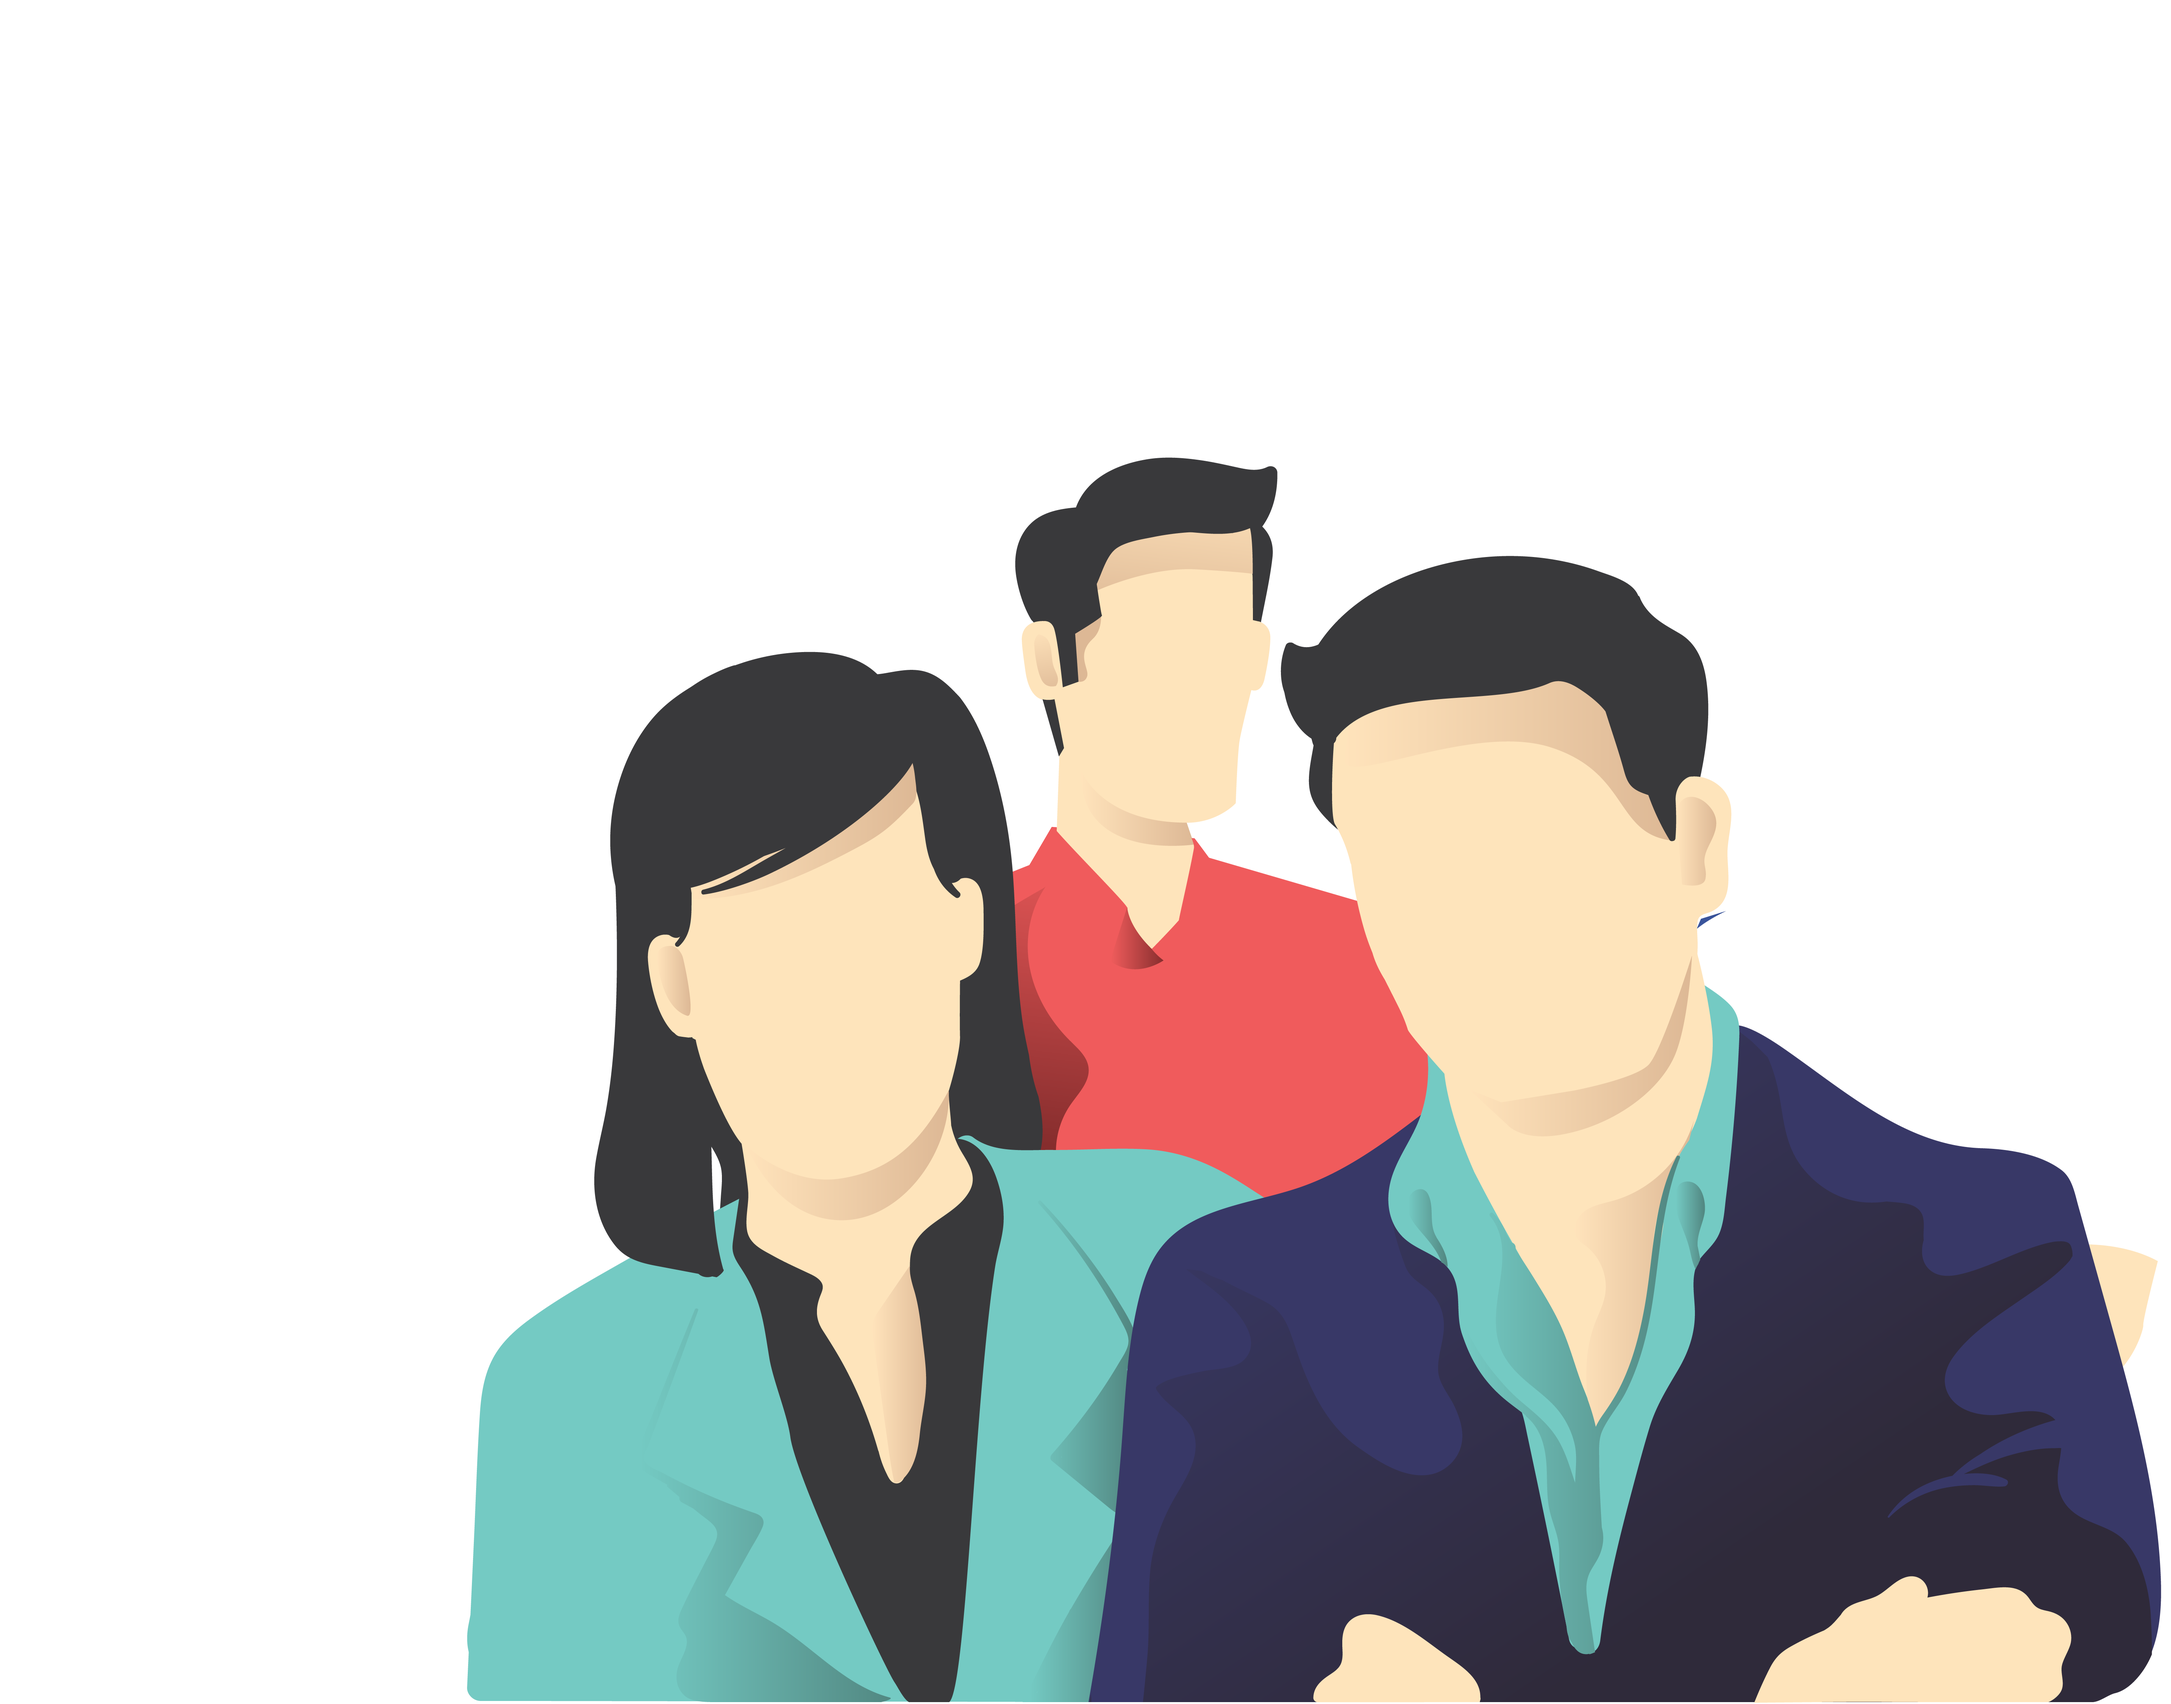
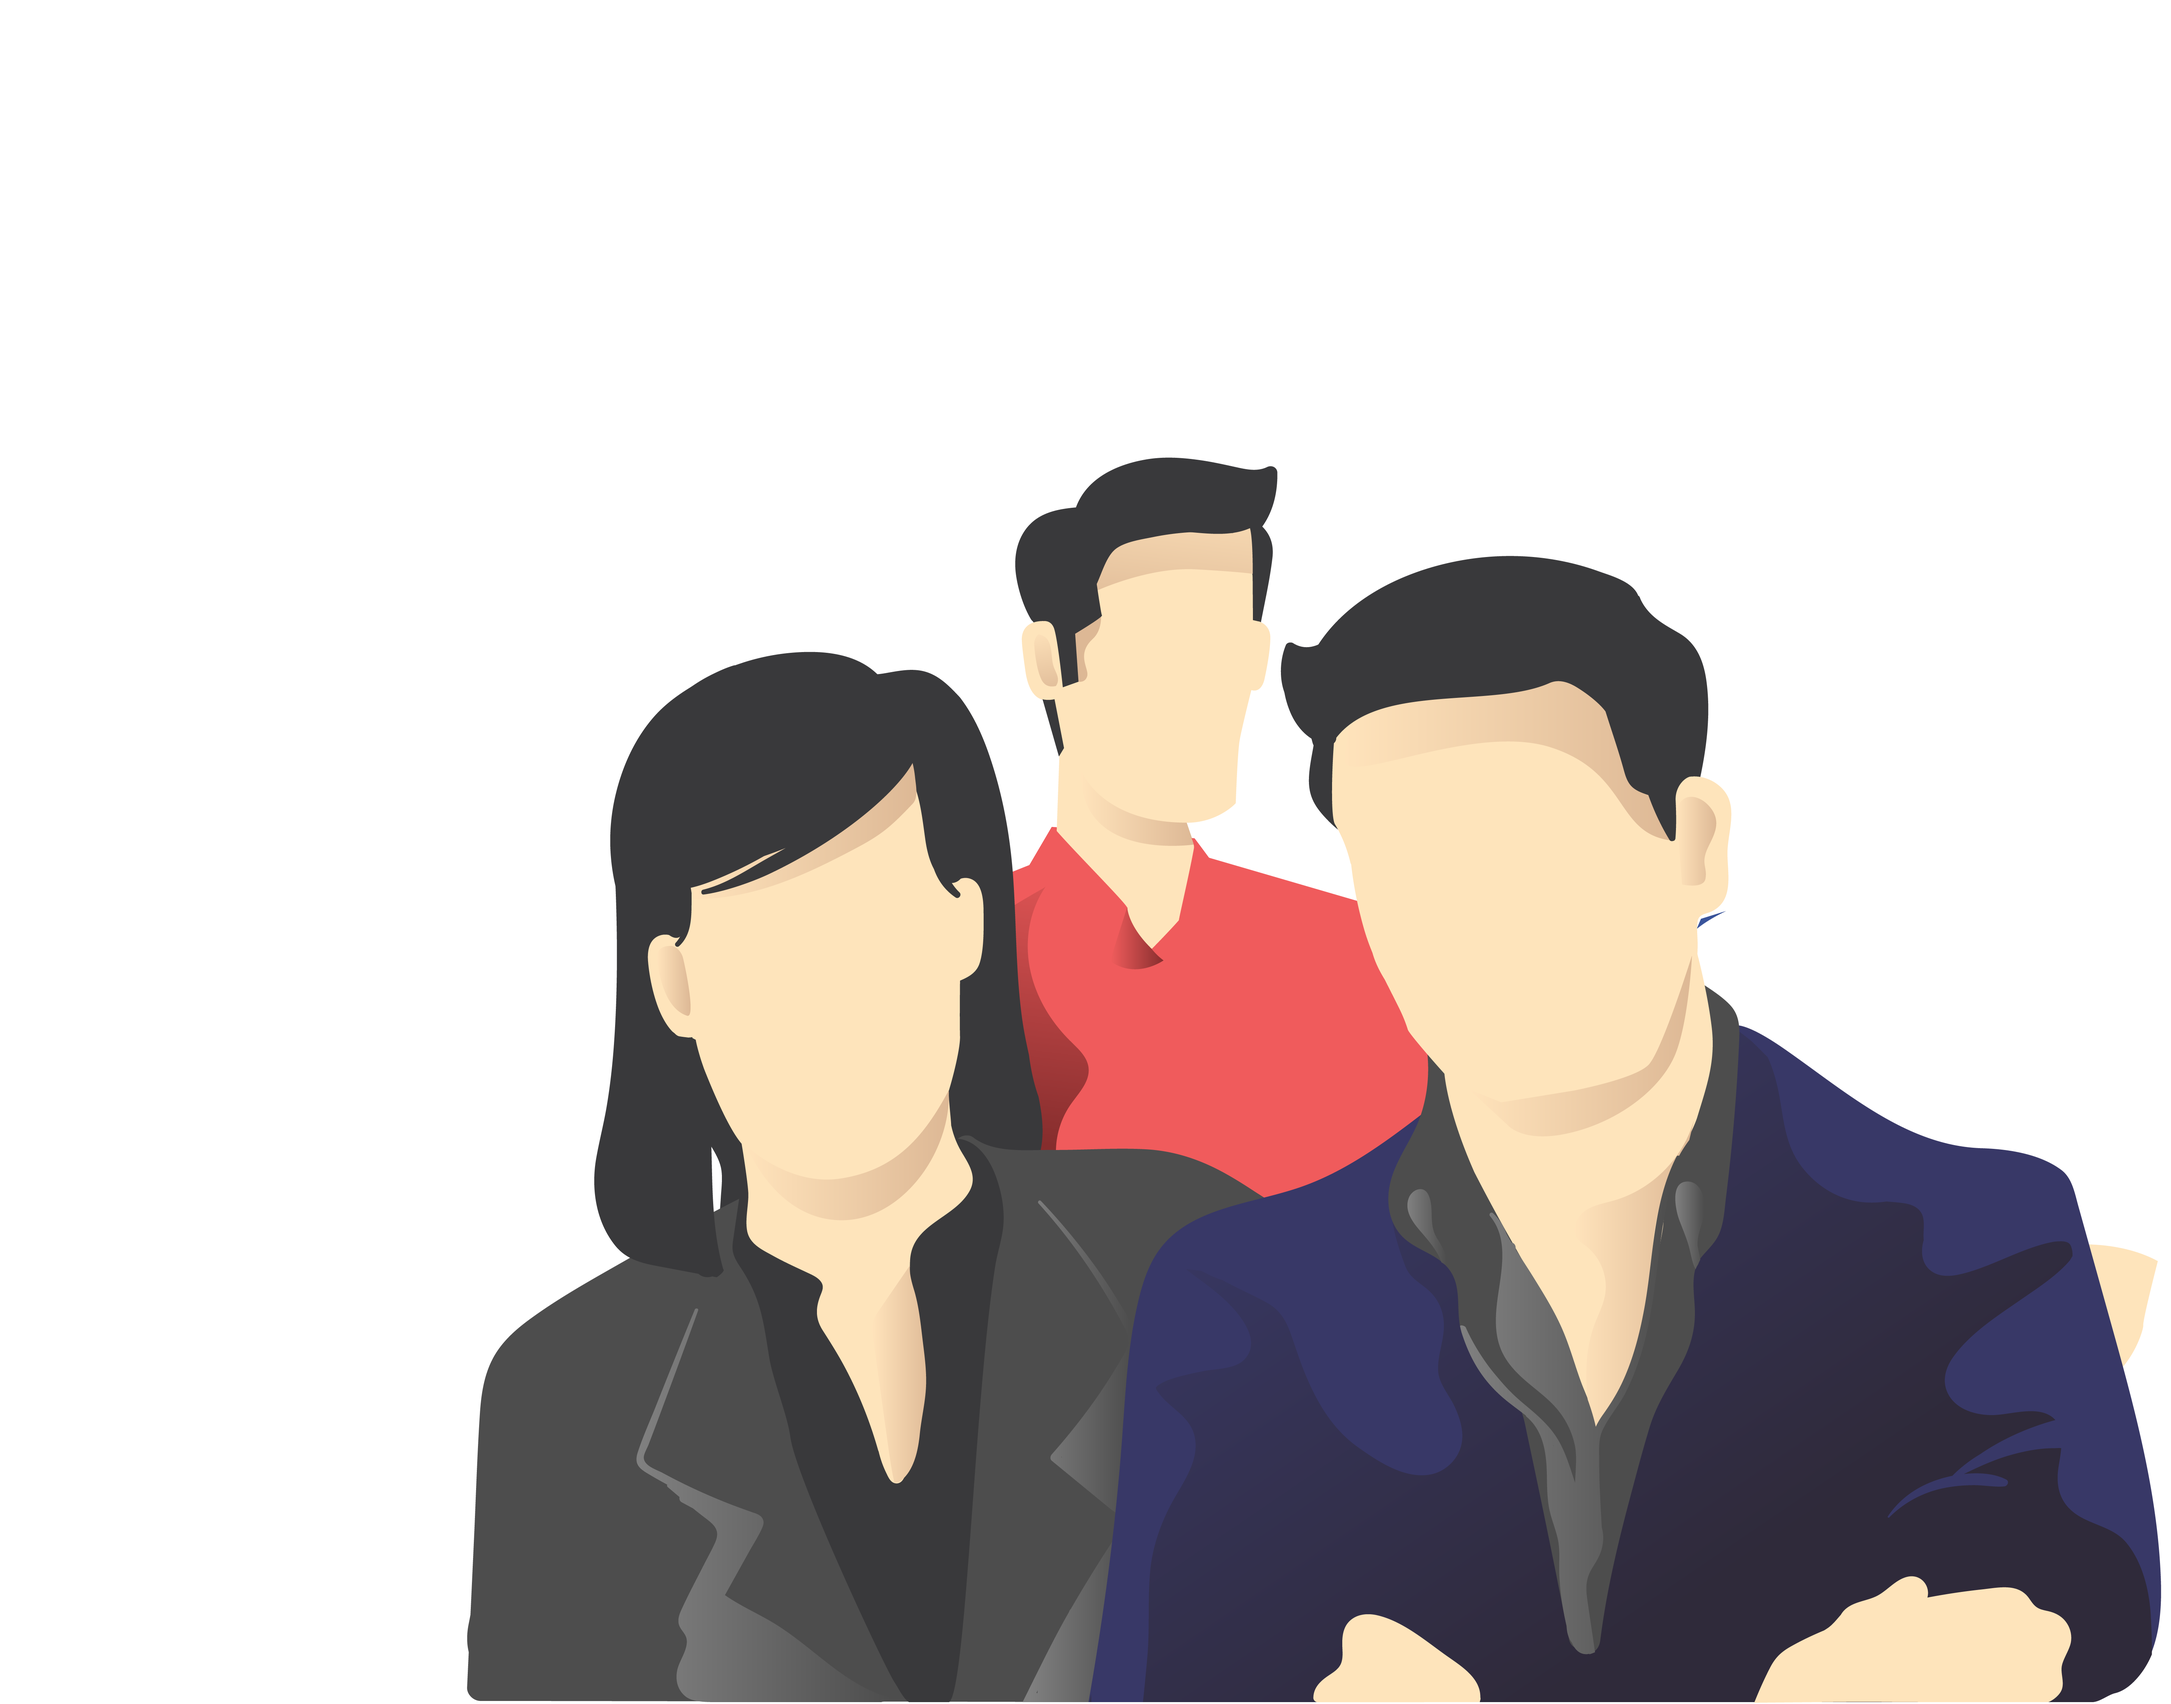
Update
Transparency

Changed region(s): [[0.2186, 0.6533, 0.5933, 1.0], [0.6246, 0.5911, 0.8119, 0.9644]]

diff --git a/contact.html b/contact.html
@@ -82,10 +82,10 @@
             </div>
 		    <div class="col-lg-6 vector">
 				<ul id="scene">
-					<li class="layer" data-depth="0.20"><img src="Images/Contact/1.png" alt="" class="img-fluid"></li>
-					<li class="layer" data-depth="0.40"><img src="Images/Contact/2.png" alt="" class="img-fluid"></li>
-					<li class="layer" data-depth="0.60"><img src="Images/Contact/4.png" alt="" class="img-fluid"></li>
-					<li class="layer" data-depth="0.90"><img src="Images/Contact/3.png" alt="" class="img-fluid"></li>
+					<li class="layer" data-depth="0.20"><img src="Images/Contact/1.png" alt="" class="img-fluid c1"></li>
+					<li class="layer" data-depth="0.40"><img src="Images/Contact/2.png" alt="" class="img-fluid c2"></li>
+					<li class="layer" data-depth="0.60"><img src="Images/Contact/4.png" alt="" class="img-fluid c3"></li>
+					<li class="layer" data-depth="0.90"><img src="Images/Contact/3.png" alt="" class="img-fluid c4"></li>
 				</ul>
 			</div>
 	    </div>

diff --git a/about.html b/about.html
@@ -57,8 +57,8 @@
 			</div>
 		    <div class="col-lg-6 vector">
 				<ul id="scene">
-					<li class="layer" data-depth="0.40"><img src="Images/About/1.png" alt="" class="img-fluid a1"></li>
-					<li class="layer" data-depth="0.50"><img src="Images/About/2.png" alt="" class="img-fluid a2"></li>
+					<li class="layer" data-depth="0.20"><img src="Images/About/1.png" alt="" class="img-fluid a1"></li>
+					<li class="layer" data-depth="0.30"><img src="Images/About/2.png" alt="" class="img-fluid a2"></li>
 					<li class="layer" data-depth="0.60"><img src="Images/About/3.png" alt="" class="img-fluid a3"></li>
 				</ul>
 			</div>

diff --git a/CSS/contact.css b/CSS/contact.css
@@ -78,7 +78,9 @@ body{
   flex-basis: 100%;
   height: 0;
 }
-
+.c1{
+	opacity: 0.7;
+}
 
 
 /* Contact Form */

diff --git a/CSS/about.css b/CSS/about.css
@@ -75,3 +75,6 @@ body{
   flex-basis: 100%;
   height: 0;
 }
+.a1{
+	opacity: 0.7;
+}
